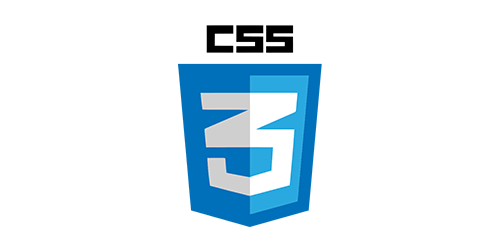
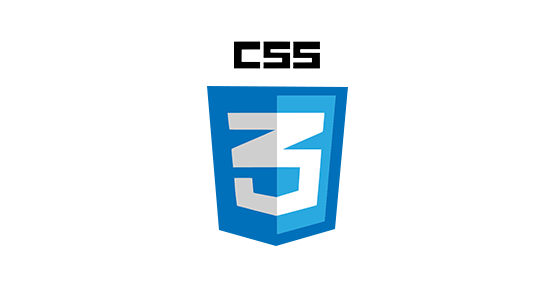
스킬영역  이미지수정 및 위치 잡는중

Changed region(s): [[0.33, 0.084, 0.66, 0.924], [0.42, 0.476, 0.45, 0.504]]

diff --git a/css/style.css b/css/style.css
@@ -240,7 +240,7 @@ body {
 }
 .sticky-title-content-1 .sticky-1{
   width:100%;
-  height: 40%;
+  height: 100%;
   border-bottom: 1px solid #000;
   display: flex;
 }
@@ -267,12 +267,14 @@ body {
 
 }
 .html-img{
-  height: 70%;
-  background-color: #fff;
+  height: 60%;
   background-image: url(../images/html5.png);
   background-position: center;
-  background-size: cover;
+  background-size: contain;
   background-repeat: no-repeat;
+}
+.html-img:hover{
+  transform: rotateZ(-30deg);
 }
 .html-text{
   text-align: center;
@@ -284,11 +286,10 @@ body {
   height: 100%;
 }
 .css-img{
-  height: 70%;
-  background-color: #fff;
+  height: 60%;
   background-image: url(../images/css3.png);
   background-position: center;
-  background-size: cover;
+  background-size: contain;
   background-repeat: no-repeat;
 }
 .css-text{
@@ -301,9 +302,8 @@ body {
   height: 100%;
 }
 .javascript-img{
-  height: 70%;
-  background-color: #fff;
-  background-image: url(../images/javascirpt-img.png);
+  height: 60%;
+  background-image: url(../images/javascript-img.png);
   background-position: center;
   background-size: contain;
   background-repeat: no-repeat;
@@ -318,8 +318,7 @@ body {
   height: 100%;
 }
 .jquery-img{
-  height: 70%;
-  background-color: #fff;
+  height: 60%;
   background-image: url(../images/jquery-img.png);
   background-position: center;
   background-size: contain;
@@ -330,7 +329,7 @@ body {
   font-size: 25px;
   line-height: 2.5;
 }
-.sticky-title-content-1 .sticky-2{
+/* .sticky-title-content-1 .sticky-2{
   width: 100%;
   height: 60%;
   display: flex;
@@ -344,7 +343,7 @@ body {
 .sticky-2-2{
   width:calc(100% - 80px);
   height: 100%;
-}
+} */
 
 
 .sticky {

diff --git a/index.html b/index.html
@@ -73,7 +73,7 @@
           <div class="sticky-title-content-1">
             <!-- 여기안에 these are my portfolio 내용채우기 -->
             <div class="sticky-1">
-              <div class="sticky-1-1">스킬</div>
+              <div class="sticky-1-1"></div>
               <div class="sticky-1-2">
                 <div class="sticky-1-2-wrap">
                   <div class="html">
@@ -95,12 +95,13 @@
                 </div>
               </div>
             </div>
-            <div class="sticky-2">
+            <!-- <div class="sticky-2">
               <div class="sticky-2-1">미니프로젝트</div>
               <div class="sticky-2-2">
-                <!-- mbti,로또번호 -->
+
               </div>
-            </div>
+            </div> -->
+
           </div>
         </div>
       </div>
